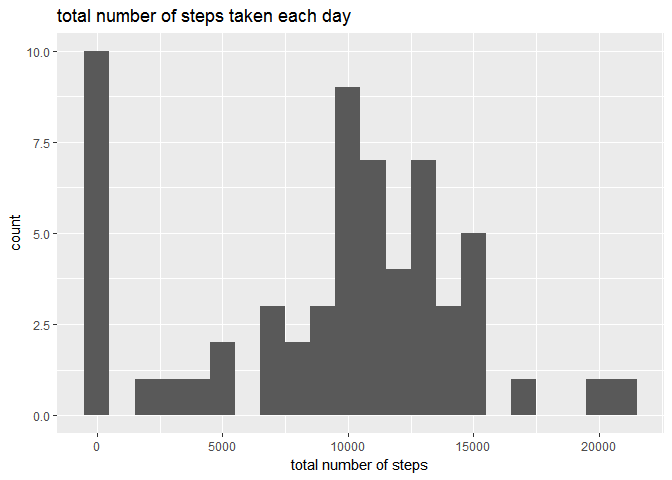
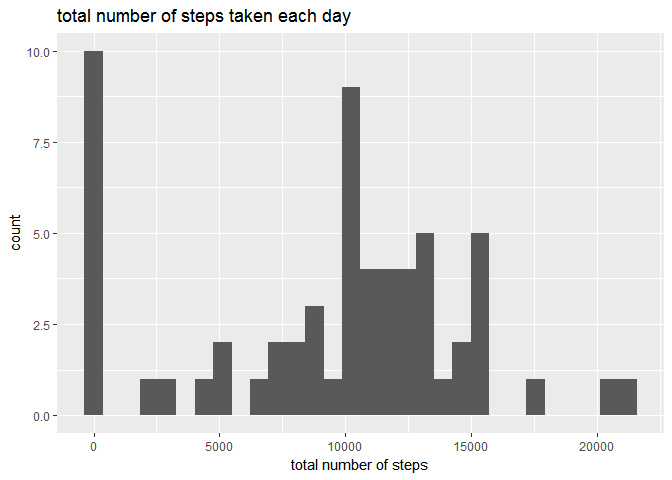
Final Fix

diff --git a/PA1_template.html b/PA1_template.html
@@ -148,8 +148,9 @@ totalSteps &lt;- tapply(X = baseData$steps,INDEX = baseData$date,FUN = sum , na.
 <ol start="2" style="list-style-type: decimal">
 <li>Make a histogram of the total number of steps taken each day Next step draw the histograph.</li>
 </ol>
-<pre class="r"><code>qplot(x = totalSteps , binwidth=1000 , xlab=&quot;total number of steps&quot;, main =&quot;total number of steps taken each day&quot; )</code></pre>
[1 lines of base64/hex data omitted]
+<pre class="r"><code>qplot(x = totalSteps ,  xlab=&quot;total number of steps&quot;, main =&quot;total number of steps taken each day&quot; )</code></pre>
+<pre><code>## `stat_bin()` using `bins = 30`. Pick better value with `binwidth`.</code></pre>
[1 lines of base64/hex data omitted]
 <ol start="3" style="list-style-type: decimal">
 <li>Calculate and report the mean and median of the total number of steps taken per day.</li>
 </ol>

diff --git a/PA1_template.md b/PA1_template.md
@@ -56,7 +56,11 @@ Next step draw the histograph.
 
 
 ```r
-qplot(x = totalSteps , binwidth=1000 , xlab="total number of steps", main ="total number of steps taken each day" )
+qplot(x = totalSteps ,  xlab="total number of steps", main ="total number of steps taken each day" )
+```
+
+```
+## `stat_bin()` using `bins = 30`. Pick better value with `binwidth`.
 ```
 
 ![](PA1_template_files/figure-html/hist_steps-1.png)<!-- -->
